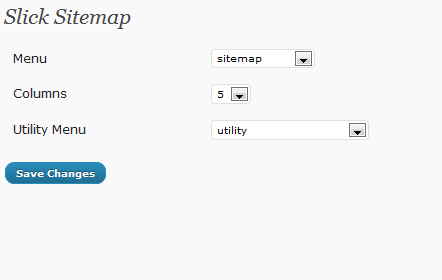
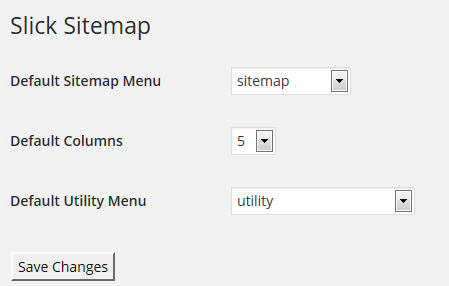
Update Slick Sitemap

diff --git a/wp-content/plugins/slick-sitemap/slickmap.css b/wp-content/plugins/slick-sitemap/slickmap.css
@@ -7,7 +7,6 @@
 
 #primaryNav li {
 	width:25%;
-	margin-left:0;
 }
 
 #primaryNav li ul li {

diff --git a/wp-content/plugins/slick-sitemap/slick-sitemap.php b/wp-content/plugins/slick-sitemap/slick-sitemap.php
@@ -3,7 +3,7 @@
 Plugin Name: Slick Sitemap
 Plugin URI: http://pengbos.com/blog/slick-html-sitemap
 Description: <a href="http://pengbos.com/blog/slick-html-sitemap" target="_blank">Slick Sitemap</a> Adds an HTML (Not XML) sitemap of your blog by entering the shortcode [slick-sitemap]. A plugin from <a href="http://pengbos.com/" target="_blank">Plugins and Themes: Pengbos.com</a>.
-Version: 1.0.0
+Version: 2.0.0
 Author: Pengbo Tang
 Author URI: http://pengbos.com
 
@@ -11,7 +11,7 @@ Contributors:
 	Pengbo Tang, host of the pengbos.com http://pengbos.com - Plugin author
         Matt Everson of Astuteo, LLC http://astuteo.com/slickmap - CSS Creator
 
-Copyright 2011=2013 Pengbo Tang, host of the Pengbos.com (http://pengbos.com)
+Copyright 2011=2015 Pengbo Tang, host of the Pengbos.com (http://pengbos.com)
 
 License: GPL (http://www.gnu.org/licenses/old-licenses/gpl-2.0.txt)
 */
@@ -41,10 +41,32 @@ function slick_sitemap_shortcode_handler($args)
 	if( is_feed() )
 		return '';
 
-        $menu = get_option('wpsm_menu');
-        $column = get_option('wpsm_column');
-        $utility_menu = get_option("wpsm_utility_menu");
-        
+		$atts = shortcode_atts(
+								array(
+									'sitemap_menu' => '',
+									'utility_menu' => '',
+									'column'=>'',
+								), $args);
+		
+		$sitemap_menu_name = $atts['sitemap_menu'];
+        $column = $atts['column'];
+        $utility_menu_name = $atts["utility_menu"];	
+		
+		$menu = get_option('wpsm_menu');
+		if(!empty($sitemap_menu_name)){
+			$menu_object = wp_get_nav_menu_object( $sitemap_menu_name );	
+			$menu = $menu_object->term_id;
+		}
+		$utility_menu = get_option("wpsm_utility_menu");
+		if(!empty($utility_menu_name)){
+			$utility_menu_object = wp_get_nav_menu_object( $utility_menu_name ); 
+			$utility_menu = $utility_menu_object->term_id;
+		}
+		
+        if(empty($column)){
+			$column = get_option('wpsm_column');
+		}
+
         if(isset($menu)||isset($utility_menu)){
             $defaults = array( 'menu' => '', 'container' => 'div', 'container_class' => '', 'container_id' => '', 'menu_class' => 'menu', 'menu_id' => '',
             'echo' => true, 'fallback_cb' => 'wp_page_menu', 'before' => '', 'after' => '', 'link_before' => '', 'link_after' => '', 'items_wrap' => '<ul id="%1$s" class="%2$s">%3$s</ul>',
@@ -97,7 +119,7 @@ function wpsm_menu_function() {
     <?php settings_fields( 'wpsm-settings-group' ); ?>
     <table class="form-table">
         <tr valign="top">
-        <th scope="row">Menu</th>
+        <th scope="row">Default Sitemap Menu</th>
         <td>
         <select name="wpsm_menu" id="wpsm_menu"> 
 			 <option value="">Select a Menu</option> 
@@ -118,7 +140,7 @@ function wpsm_menu_function() {
         </tr>
     	
         <tr valign="top">
-        <th scope="row">Columns</th>
+        <th scope="row">Default Columns</th>
         <td>
         <label>
         <?php $columns = get_option('wpsm_column'); ?>
@@ -138,7 +160,7 @@ function wpsm_menu_function() {
         </tr>
         
       <tr valign="top">
-        <th scope="row">Utility Menu</th>
+        <th scope="row">Default Utility Menu</th>
         <td>
         <select name="wpsm_utility_menu" id="wpsm_utility_menu"> 
 			 <option value="">Select a Menu for Utility</option> 
